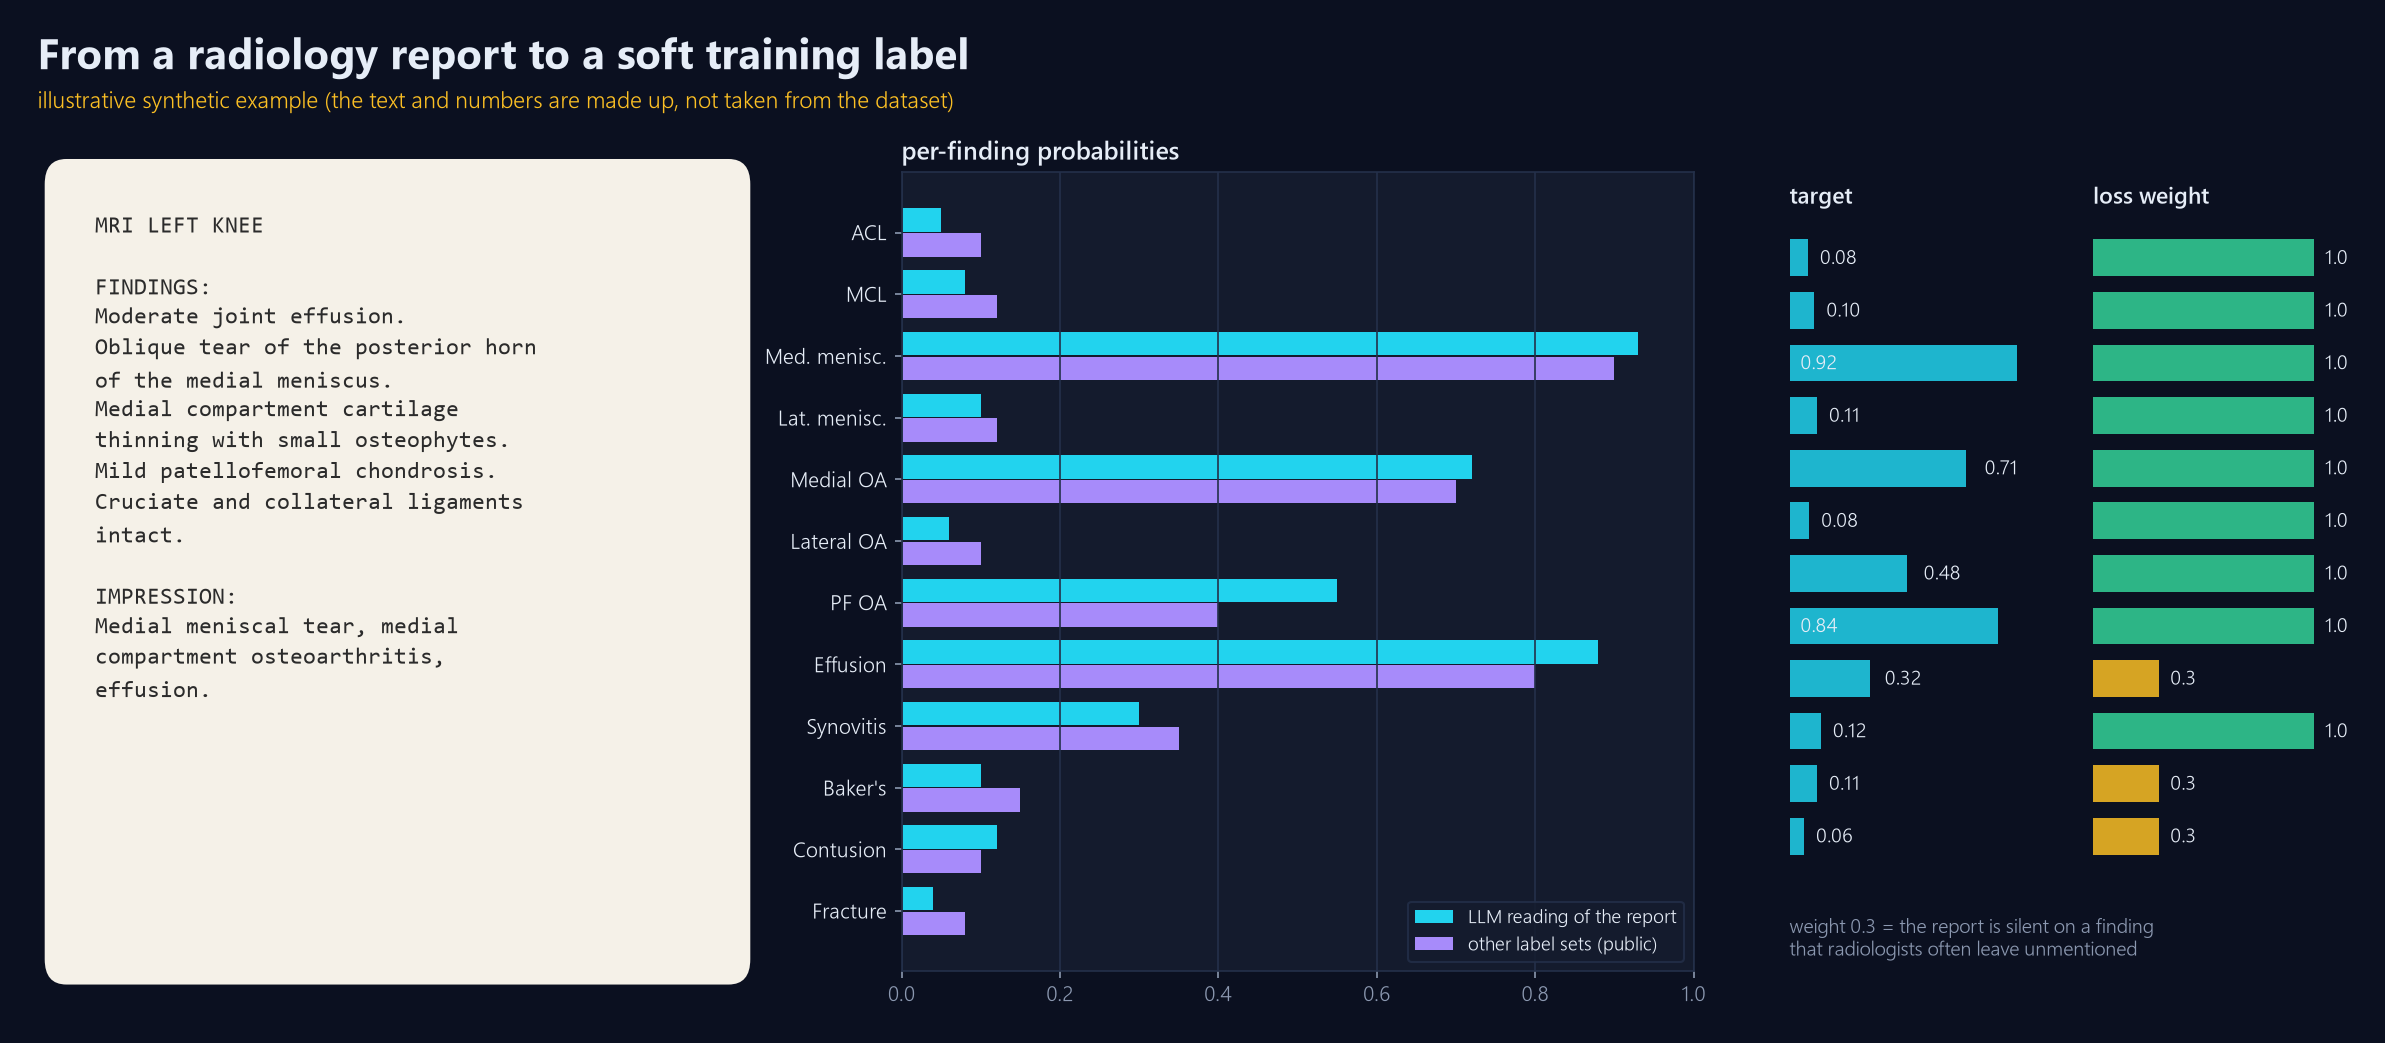
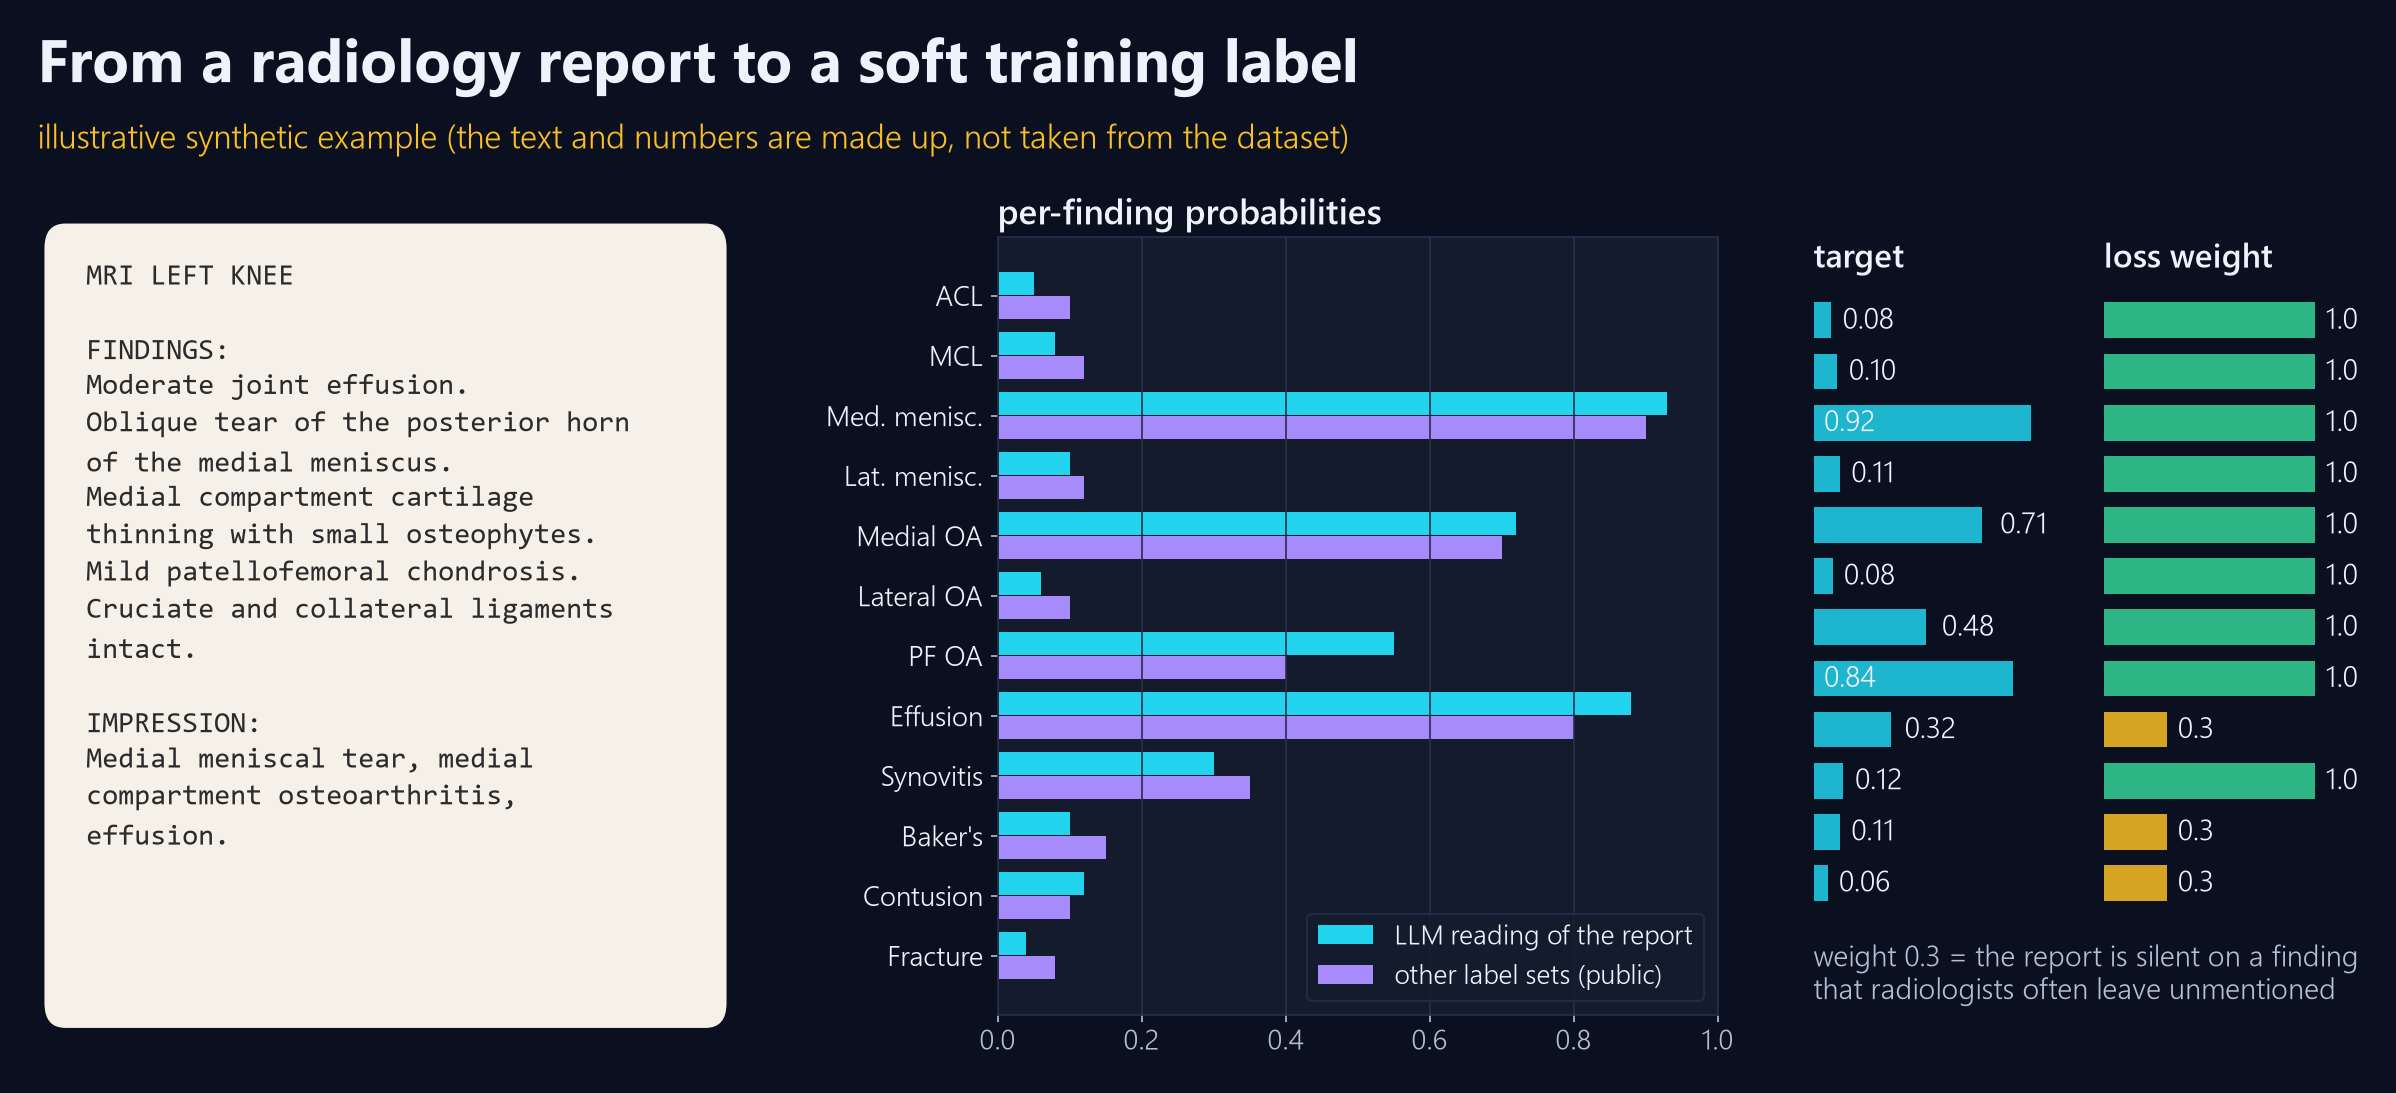
Readable figures, text before images, volume figure without the empty series

diff --git a/README.md b/README.md
@@ -15,8 +15,6 @@ Author: Semyon Davshits
 ![PyTorch](https://img.shields.io/badge/PyTorch-2.x-EE4C2C?logo=pytorch&logoColor=white)
 ![timm](https://img.shields.io/badge/timm-CoAtNet%20%7C%20ConvNeXt-FFD21E)
 
-![volume](img/02b_volume.png)
-
 </div>
 
 ## 1. Overview
@@ -28,8 +26,6 @@ Author: Semyon Davshits
 
 ## 2. Architecture
 
-![pipeline](img/01_pipeline.png)
-
 | Reader | Model | Input | Origin |
 |---|---|---|---|
 | A | CoAtNet, 2.5D multiple-instance, per-finding attention | 384 px, 94 windows | public checkpoint, fine-tuned by us |
@@ -38,26 +34,26 @@ Author: Semyon Davshits
 | C | ConvNeXt-S, all data | 288 px | public (nartaa) |
 | D | r(2+1)D-18 ×2 + Lateral-OA specialist ×3 | 192 px volumes / 320 px zoom | ours |
 
-## 3. Input
+![pipeline](img/01_pipeline.png)
 
-![volume](img/02b_volume.png)
+## 3. Input
 
 * Series sorted by physical position, orientation canonicalised, left knees mirrored to right.
 * 140 mm field centred on the knee, 96 slices in five slots: sagittal fat-sat, sagittal, coronal fat-sat, coronal, axial.
 
-![input](img/02_input.png)
+![volume](img/02b_volume.png)
 
 * A window is three neighbouring slices stacked as RGB: 94 windows per study.
 * The Lateral-OA specialist sees a 320 px zoom of the lateral compartment.
 
-![mil](img/02c_mil.png)
+![input](img/02_input.png)
 
 * One shared backbone embeds every window; each of the 12 findings has its own attention over the windows.
 * Mirror TTA: the mirrored study is scored again and averaged.
 
-## 4. Labels
+![mil](img/02c_mil.png)
 
-![labels](img/03_labels.png)
+## 4. Labels
 
 * Reports read by language models into per-finding probabilities, averaged with public report-derived label sets.
 * Synovitis, Lateral OA, Effusion and Contusion re-read by larger models.
@@ -67,6 +63,8 @@ Author: Semyon Davshits
 | StudyInstanceUID | ACL … Fracture | ACL__w … Fracture__w | is_gold |
 |---|---|---|---|
 | `1.2.3.example` | 0.08 … 0.06 | 1.0 … 0.3 | False |
+
+![labels](img/03_labels.png)
 
 ## 5. Training
 
@@ -81,12 +79,14 @@ python src/training/make_soup.py soup.pt public.pt:0.25 ft1.pt:0.1875 ft2.pt:0.1
 
 ### 5.2 Gold batches
 
-![gold](img/04_gold_batches.png)
+Each training draw is a gold study with probability *p*; final soups use *p* = 0.50.
 
 ```bash
 python src/training/train_raptor_ft.py --holdout -1 --gold_w 1 --gold_frac 0.50 --epochs 1 \
        --init public.pt --labels labels.csv --out runs/gf50
 ```
+
+![gold](img/04_gold_batches.png)
 
 ### 5.3 Specialists and 3D models
 
@@ -109,18 +109,18 @@ Per finding, every reader is converted to ranks, then:
 
 ## 7. Results
 
-![history](img/06_history.png)
-
-![public vs private](img/05_public_private.png)
-
 | Final submission | Public | Private |
 |---|---|---|
 | A = soup of 4 gold-batch fine-tunes (p = 0.50) | 0.960 | 0.944 |
 | A = soup of 2 gold-batch fine-tunes, A′ + gold-batch fine-tune | 0.960 | 0.944 |
+
+![history](img/06_history.png)
+
+![public vs private](img/05_public_private.png)
 
 ## Credits
 
 * **nartaa**: public CoAtNet 384/224 checkpoints (readers A, A′), reader C.
 * **heliosli**: reader B, per-finding blend shares, flip TTA.
 * Public report-derived label sets of other participants.
-* Figure 2: knee MRI by Ptrump16, CC BY-SA 4.0, via Wikimedia Commons.
+* MRI in the figures: knee MRI by Ptrump16, CC BY-SA 4.0, via Wikimedia Commons.
